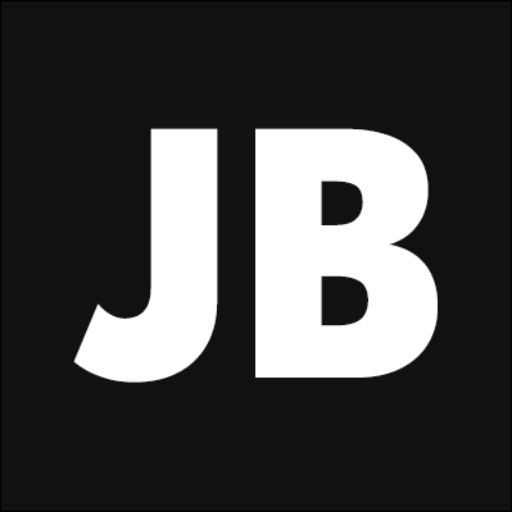
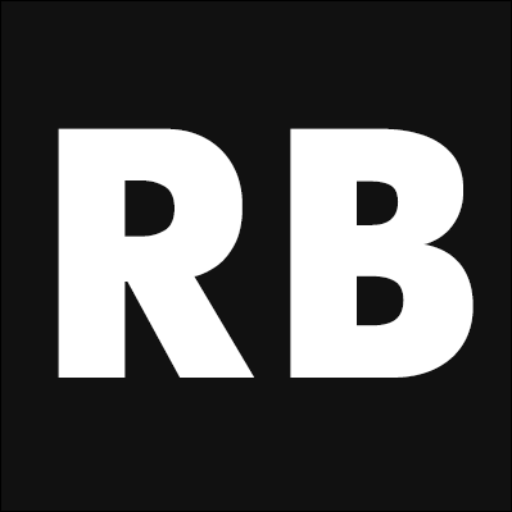
changed ownership

diff --git a/src/scenes/Projects.jsx b/src/scenes/Projects.jsx
@@ -94,51 +94,51 @@ const Projects = () => {
             BEAUTIFUL USER INTERFACES
           </div>
           <Project
-            title="Vanguard Property"
-            subtitle="Full stack real estate website with headless CMS. Built with Next.js and Strapi as the headless CMS"
-            href="https://vanguard-property.vercel.app/"
+            title="Smart Home App"
+            subtitle="Intuitive interface for controlling and managing modern smart home devices."
+            href="/"
           />
           <Project
-            title="deckr"
-            subtitle="This is a task app that focuses on priority built with React. As the user adds a task it gets added to the forefront of a deck of previously added tasks."
-            href="https://deckr.netlify.app/"
+            title="Ecommerce"
+            /* subtitle="This is a task app that focuses on priority built with React. As the user adds a task it gets added to the forefront of a deck of previously added tasks." */
+            subtitle="Elevating shopping with stylish UI, seamless navigation, and secure transactions."
+            href="/"
           />
 
           {/* ROW 2 */}
           <Project
-            title="Homeland - Real Estate"
-            subtitle="Frontend Real Estate app built with React and Tailwind."
-            href="https://github.com/jamesrbowles/homeland-realestate"
+            title="Time Tracker App"
+            subtitle="Streamlining productivity with a minimalist design and precise time management."
+            href="/"
           />
           <Project
-            title="Real Estate - Strapi"
-            subtitle="Real Estate App built with React with Strapi for the Headless CMS"
-            href="https://github.com/jamesrbowles/Strapi-Real-Estate"
+            title="Photography Portfolio"
+            subtitle="Showcasing the clients visual journey through captivating snapshots and creative storytelling."
+            href="/"
           />
           <Project
-            title="Portfolio"
-            subtitle="My personal portfolio built with React"
-            href="https://jamesrbowles.github.io/react-portfolio/"
+            title="Photo Book"
+            subtitle="Turning memories into tangible emotions through a beautifully designed visual narrative."
+            href="/"
           />
 
           {/* ROW 3 */}
 
           <Project
-            title="Password Generator"
-            subtitle="Unique password generator app"
-            href="https://jamesrbowles.github.io/Password-Generator/"
+            title="Beauty Salon"
+            subtitle="Embracing elegance and serenity, merging design with a luxurious salon experience."
+            href="/"
+          />
+          <Project
+            title="3D Nature Display"
+            subtitle="Immerse in nature's wonders through an interactive, captivating 3D showcase."
+            href="/"
           />
           <div
             className="flex justify-center text-center items-center p-10 bg-green
               max-w-[400px] max-h-[400px] text-2xl font-montserrat font-semibold"
           >
             SMOOTH USER EXPERIENCE
-          </div>
-          <div
-            className="flex justify-center text-center items-center p-10 bg-purple
-              max-w-[400px] max-h-[400px] text-2xl font-montserrat font-semibold"
-          >
-            ABSOLUTE BESPOKE APPS
           </div>
         </motion.div>
       </div>

diff --git a/src/scenes/MySkills.jsx b/src/scenes/MySkills.jsx
@@ -38,7 +38,7 @@ const MySkills = ({ skillFan, handleSkillFan }) => {
           <div className="flex justify-center mt-5">
             <LineGradient width="w-1/3" />
           </div>
-          <p className="text-center font-montserrat sm:text-left mt-10 ">
+          {/* <p className="text-center font-montserrat sm:text-left mt-10 ">
             As a Real Estate Web developer, I specialize in leveraging the
             latest and most advanced technologies to create exceptional
             websites. By utilizing Next.js and headless CMS platforms like
@@ -59,6 +59,29 @@ const MySkills = ({ skillFan, handleSkillFan }) => {
             In summary, I combine cutting-edge technology, meticulous
             optimization, and unwavering problem-solving abilities to deliver
             outstanding Real Estate websites that exceed expectations.
+          </p> */}
+          <p className="text-center font-montserrat sm:text-left mt-10">
+            As a UI/UX designer, I bring a blend of creativity and user-centered
+            thinking to every project.
+            <br></br>
+            <br></br>
+            With a keen eye for aesthetics, I craft visually appealing
+            interfaces that resonate with users. I'm proficient in translating
+            complex ideas into intuitive designs, ensuring seamless navigation
+            and engaging experiences. My skills encompass wireframing,
+            prototyping, and user testing, allowing me to iterate and optimize
+            designs based on real user feedback.
+            <br></br>
+            <br></br>
+            I'm well-versed in design tools like Adobe XD, Figma, and Sketch,
+            enabling me to transform concepts into polished visuals. My
+            dedication to understanding user behavior and needs empowers me to
+            create meaningful solutions that strike the perfect balance between
+            form and function.
+            <br></br>
+            <br></br>
+            I'm passionate about crafting designs that not only look impressive
+            but also enrich users' interactions, leaving a lasting impact.
           </p>
         </motion.div>
       </div>

diff --git a/src/components/CardSkills/skills.js b/src/components/CardSkills/skills.js
@@ -1,55 +1,56 @@
 import {
-  FaCss3Alt,
-  FaGithub,
-  FaHtml5,
-  FaNodeJs,
-  FaReact,
-} from 'react-icons/fa';
-import { SiJavascript, SiTailwindcss, SiNextdotjs } from 'react-icons/si';
+  SiAdobexd,
+  SiAdobeillustrator,
+  SiAdobephotoshop,
+  SiSketch,
+  SiProtodotio,
+  SiInvision,
+  SiFigma,
+} from 'react-icons/si';
 
 const skills = [
   {
-    name: 'GitHub',
-    img: <FaGithub />,
-    logoColor: '#F6F6F6',
-    bgColor: '#424242',
+    name: 'InVision',
+    img: <SiInvision />,
+    logoColor: '#ff3366',
+    bgColor: '#ffffff',
   },
 
   {
-    name: 'Tailwind',
-    img: <SiTailwindcss />,
-    logoColor: '#39c0e3',
-    bgColor: '#0a2e42',
+    name: 'Proto.io',
+    img: <SiProtodotio />,
+    logoColor: '#61beec',
+    bgColor: '#4064ac',
   },
   {
-    name: 'NodeJS',
-    img: <FaNodeJs />,
-    logoColor: '#68a063',
-    bgColor: '#292929',
+    name: 'Sketch',
+    img: <SiSketch />,
+    logoColor: '#f9a52c',
+    bgColor: '#f0f1f1',
   },
   {
-    name: 'CSS',
-    img: <FaCss3Alt />,
-    logoColor: '#264de4',
-    bgColor: '#F0F0F0',
+    name: 'Adobe XD',
+    img: <SiAdobexd />,
+    logoColor: '#dc76e7',
+    bgColor: '#390e33',
   },
   {
-    name: 'JavaScript',
-    img: <SiJavascript />,
-    logoColor: '#F0DB4F',
-    bgColor: '#323330',
+    name: 'Illustrator',
+    img: <SiAdobeillustrator />,
+    logoColor: '#f8a829',
+    bgColor: '#3c240c',
   },
   {
-    name: 'React',
-    img: <FaReact />,
-    logoColor: '#04d8f9',
-    bgColor: '#2d415c',
+    name: 'Photoshop',
+    img: <SiAdobephotoshop />,
+    logoColor: '#31A8FF',
+    bgColor: '#001E36',
   },
   {
-    name: 'Next.js',
-    img: <SiNextdotjs />,
-    logoColor: '#EDEDED',
-    bgColor: '#1A1A1A',
+    name: 'Figma',
+    img: <SiFigma />,
+    logoColor: '#9dfbe7',
+    bgColor: '#314444',
   },
 ];
 

diff --git a/src/scenes/Landing.jsx b/src/scenes/Landing.jsx
@@ -52,10 +52,10 @@ const Landing = ({ setSelectedPage, handleProjectsBtn, projectsBtnActive }) => {
             <Typewriter
               onInit={(typewriter) => {
                 typewriter
-                  .typeString('Developer')
-                  .pauseFor(2500)
+                  .typeString('UI/UX')
+                  .pauseFor(800)
                   .deleteAll()
-                  .typeString('Freelancer')
+                  .typeString('Designer')
                   .pauseFor(2000)
                   .deleteAll()
                   .start();
@@ -84,9 +84,10 @@ const Landing = ({ setSelectedPage, handleProjectsBtn, projectsBtnActive }) => {
           }}
         >
           <p className="text-base sm:text-lg md:text-xl mt-10 mb-7 text-center text-grey font-montserrat">
-            Web developer specialising in Real Estate Websites with Next.js and
-            Strapi Headless. Take a deep dive into my portfolio to learn a
-            little more.
+            <span className="text-white font-bold">Robert Bailey</span>{' '}
+            <span className="mx-2">||</span>
+            Designing Seamless Experiences: Merging Creativity with User-Centric
+            Solutions
           </p>
         </motion.div>
 

diff --git a/src/scenes/Footer.jsx b/src/scenes/Footer.jsx
@@ -1,5 +1,5 @@
-import React from "react";
-import SocialMediaIcons from "../components/SocialMediaIcons";
+import React from 'react';
+import SocialMediaIcons from '../components/SocialMediaIcons';
 
 const Footer = () => {
   return (
@@ -9,10 +9,10 @@ const Footer = () => {
 
         <div className="md:flex justify-center md:justify-between text-center">
           <p className="font-montserrat font-semibold text-2xl text-green">
-            JAMES BOWLES
+            ROBERT BAILEY
           </p>
           <p className="font-montserrat text-md text-green md:ml-4">
-            ©2023 BOWLES. All Rights Reserved.
+            ©2023 BAILEY. All Rights Reserved.
           </p>
         </div>
       </div>

diff --git a/src/components/SocialMediaIcons.jsx b/src/components/SocialMediaIcons.jsx
@@ -1,10 +1,10 @@
-import { FaGithub } from "react-icons/fa";
+import { FaGithub } from 'react-icons/fa';
 
 const SocialMediaIcons = () => {
   return (
     <div className="">
       <a
-        href="https://github.com/jamesrbowles"
+        href="/"
         target="_blank"
         rel="noreferrer"
         className="opacity-50 hover:opacity-100 transition duration-500 text-4xl"

diff --git a/src/scenes/Contact.jsx b/src/scenes/Contact.jsx
@@ -74,7 +74,7 @@ const Contact = () => {
         >
           <img
             className="saturate-0 object-contain max-w-lg rounded-md min-w-0"
-            src={`${process.env.PUBLIC_URL + '/assets/unnamed.jpg'}`}
+            src={`${process.env.PUBLIC_URL + '/assets/portfolio-portrait.jpg'}`}
             alt="contact"
           />
         </motion.div>
